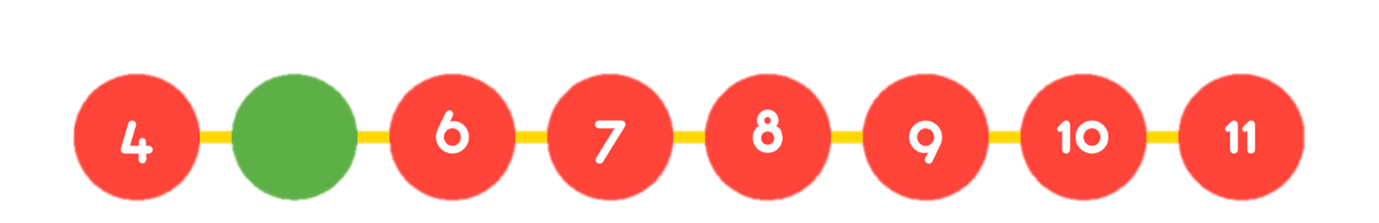
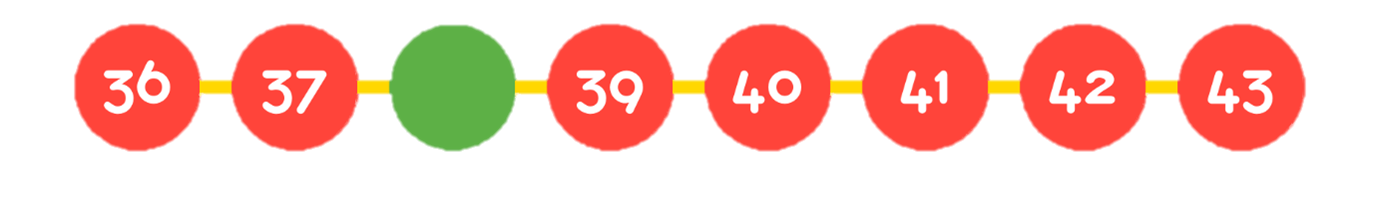
Working!

diff --git a/cosmic-calc/src/pages/Game.js b/cosmic-calc/src/pages/Game.js
@@ -59,7 +59,8 @@ export default function Game() {
 
   const [numberLineID, setNumberLineID] = useState(0);
   const [numberLineImg, setNumberLineImg] = useState("");
-  const [numberLineArray, setNumberLineArray] = useState([{}]);
+  const [correctAnswer1, setCorrectAnswer1] = useState(0);
+  const [numberLineArray, setNumberLineArray] = useState([]);
 
   useEffect(() => {
     async function getNumberLine() {
@@ -74,7 +75,9 @@ export default function Game() {
       );
       const data = await response.json();
       if (data.payload) {
+        console.log(`data.payload: ${data.payload}`);
         console.log(data.payload);
+        let newNumberLineArray = data.payload;
         setNumberLineArray(data.payload);
         console.log(numberLineArray);
         console.log(numberLineArray);
@@ -85,9 +88,11 @@ export default function Game() {
         setNumberLineID(randomID);
         console.log(numberLineArray[numberLineID]);
         // setNumberLineImg(numberLineArray[numberLineID].img_url);
-        // setNumberLineImg(numberLineArray[numberLineID].img_url);
-        setNumberLineImg('')
-        console.log(numberLineImg);
+        //setNumberLineImg(numberLineArray[numberLineID].img_url);
+        console.log("This is an image", newNumberLineArray[randomID].img_url);
+        setNumberLineImg(newNumberLineArray[randomID].img_url);
+        setCorrectAnswer1(numberLineArray[randomID].answer);
+        //setNumberLineImg("");
       }
     }
     getNumberLine();
@@ -95,8 +100,8 @@ export default function Game() {
 
   const checkAnswer1 = () => {
     setNoOfQuestions(noOfQuestions + 1);
-    let correctAnswer = numberLineArray[numberLineID].answer;
-    let questionResult = (correctAnswer = answerInput);
+    //let correctAnswer = numberLineArray[numberLineID].answer;
+    let questionResult = correctAnswer1 === answerInput;
     setAnswerInput("");
     if (questionResult === true) {
       playCorrect();
@@ -105,15 +110,15 @@ export default function Game() {
       newQuestion1();
     } else {
       playWrong();
-      setResult(correctAnswer);
+      setResult(correctAnswer1);
       setAnswerVisible(true);
     }
   };
 
   const newQuestion1 = () => {
     let randomID = randomNumberGenerator(10);
-    setNumberLineID(randomID);
-    setNumberLineImg(numberLineArray[numberLineID].img_url);
+    setNumberLineImg(numberLineArray[randomID].img_url);
+    setCorrectAnswer1(numberLineArray[randomID].answer);
     setAnswerInput("");
     setResult("");
     setAnswerVisible(false);
@@ -350,12 +355,11 @@ export default function Game() {
           src={numberLineImg}
           answerInput={answerInput}
           noOfQuestions={noOfQuestions}
-          value1={""}
+          value1={"Which number is missing?"}
           setAnswerInput={setAnswerInput}
           checkAnswer={checkAnswer1}
         />
         <Score score={score} />
-       
       </div>
     );
   } else if (points < 20) {

diff --git a/cosmic-calc/src/components/picQuestionCard/picQuestionCard.css b/cosmic-calc/src/components/picQuestionCard/picQuestionCard.css
@@ -15,6 +15,11 @@
     margin: 5vh;
  } 
 
+ .QuestionImg{
+    width: 100px;
+    height: 20px;
+ }
+
 
  .inputGame{
     border-radius: 10px;
